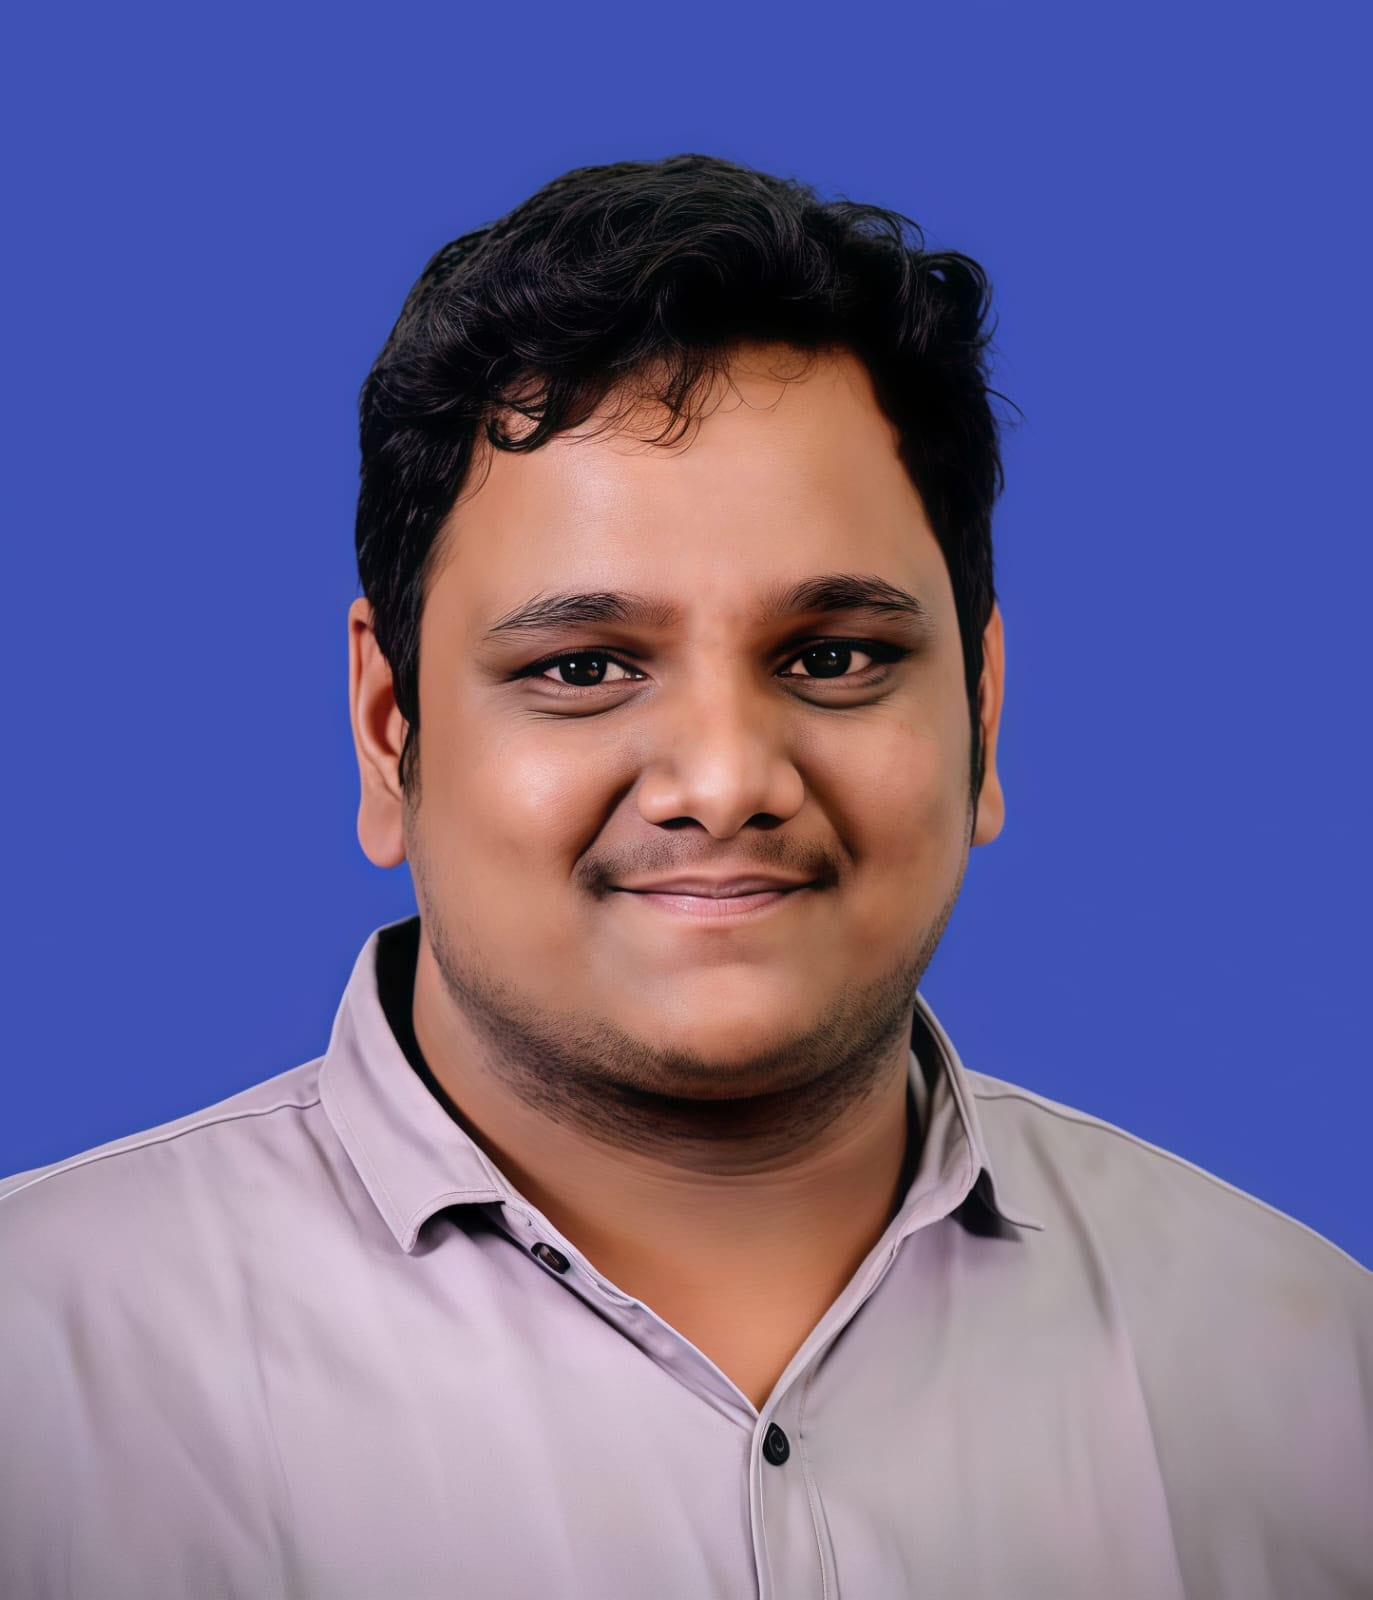
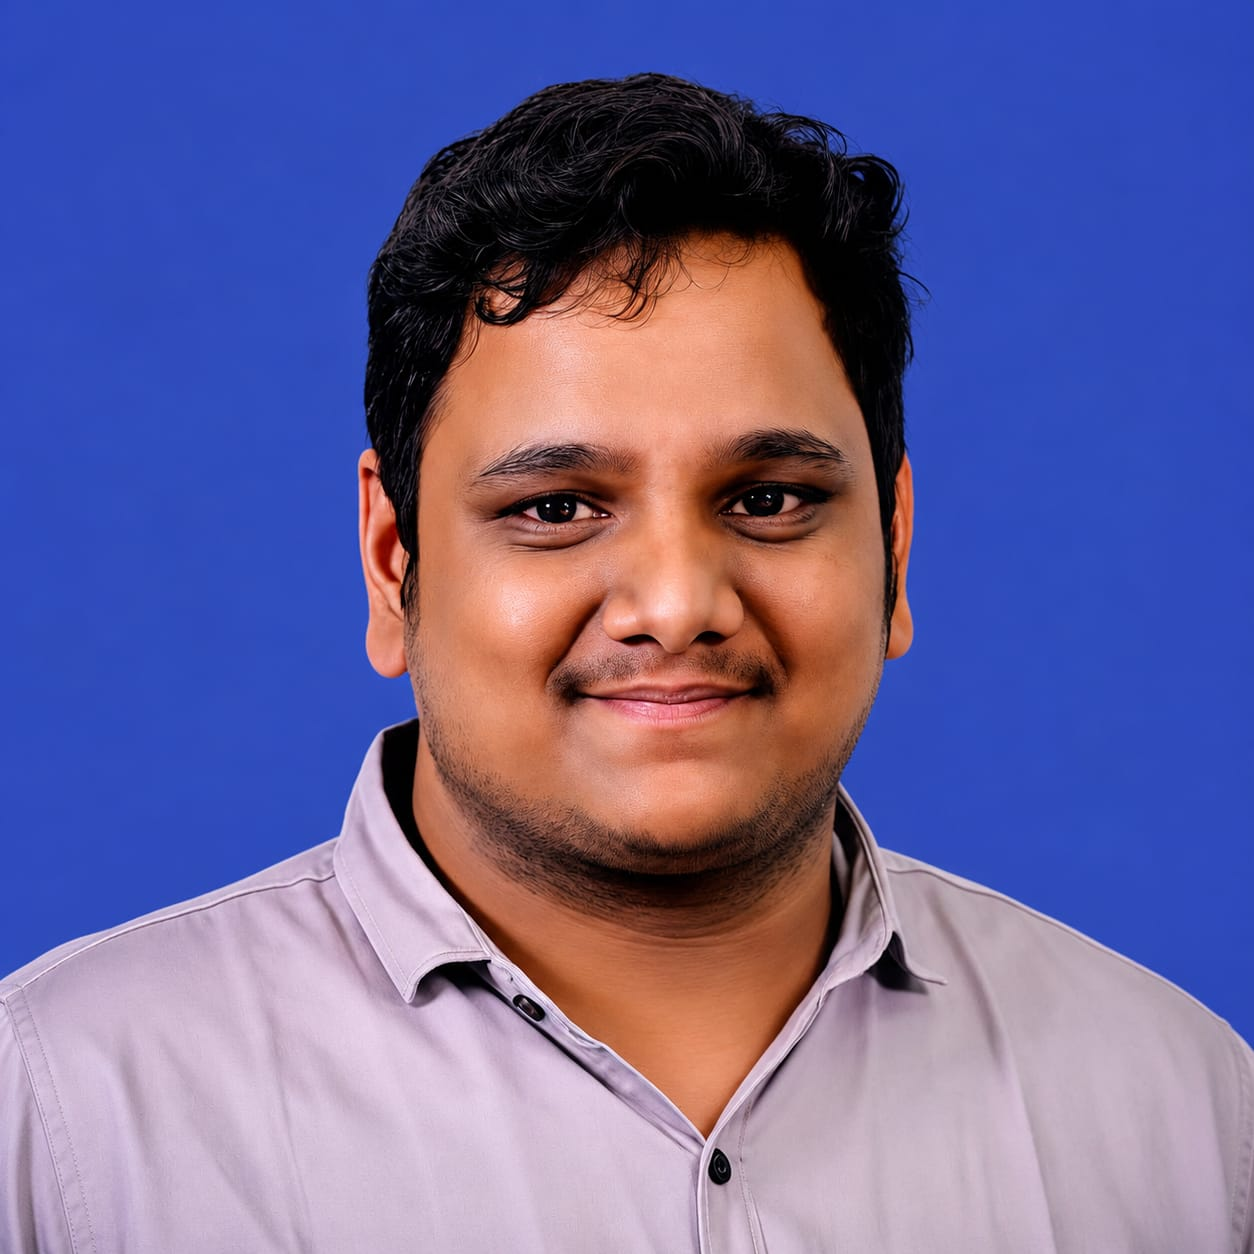
updated

diff --git a/src/pages/About.tsx b/src/pages/About.tsx
@@ -133,20 +133,36 @@ export default function About() {
                   {/* Avatar / Photo placeholder */}
                   <div className="h-[280px] bg-gradient-to-br from-orange/10 via-brown/10 to-[#FAF6F1] flex items-center justify-center relative overflow-hidden">
                     <div className="absolute top-[-40px] right-[-40px] w-[180px] h-[180px] rounded-full bg-orange/10 blur-[30px]" />
+
                     {t.image ? (
-                      <img
-                        src={t.image}
-                        alt={t.name}
-                        className="w-full h-full object-cover relative z-10 transition-transform duration-500 group-hover:scale-105"
-                        onError={(e) => {
-                          e.currentTarget.style.display = 'none';
-                          const fallback = e.currentTarget.nextElementSibling as HTMLElement;
-                          if (fallback) fallback.style.display = 'flex';
-                        }}
-                      />
+                      <div className="relative z-10 flex items-center justify-center image-wrapper">
+                        {/* Outer accent ring with rotation animation on card hover */}
+                        <div className="absolute inset-0 -m-2 rounded-full border border-dashed border-orange/30 group-hover:rotate-45 transition-transform duration-1000" />
+
+                        {/* Inner photo circular container */}
+                        <div className="w-40 h-40 rounded-full overflow-hidden border-[6px] border-white shadow-xl bg-white relative z-10 transition-transform duration-500 group-hover:scale-105">
+                          <img
+                            src={t.image}
+                            alt={t.name}
+                            className="w-full h-full object-cover"
+                            onError={(e) => {
+                              e.currentTarget.style.display = 'none';
+                              // Hide the image-wrapper entirely and show fallback
+                              const card = e.currentTarget.closest('.group');
+                              if (card) {
+                                const wrapper = card.querySelector('.image-wrapper') as HTMLElement;
+                                const fallback = card.querySelector('.initials-fallback') as HTMLElement;
+                                if (wrapper) wrapper.style.display = 'none';
+                                if (fallback) fallback.style.display = 'flex';
+                              }
+                            }}
+                          />
+                        </div>
+                      </div>
                     ) : null}
+
                     <div
-                      className="w-24 h-24 rounded-full bg-gradient-to-br from-orange to-orange-dk flex items-center justify-center text-white font-serif font-bold text-3xl tracking-tight shadow-xl group-hover:scale-105 transition-all duration-500 z-10"
+                      className="initials-fallback w-24 h-24 rounded-full bg-gradient-to-br from-orange to-orange-dk flex items-center justify-center text-white font-serif font-bold text-3xl tracking-tight shadow-xl group-hover:scale-105 transition-all duration-500 z-10"
                       style={{ display: t.image ? 'none' : 'flex' }}
                     >
                       {t.initials}